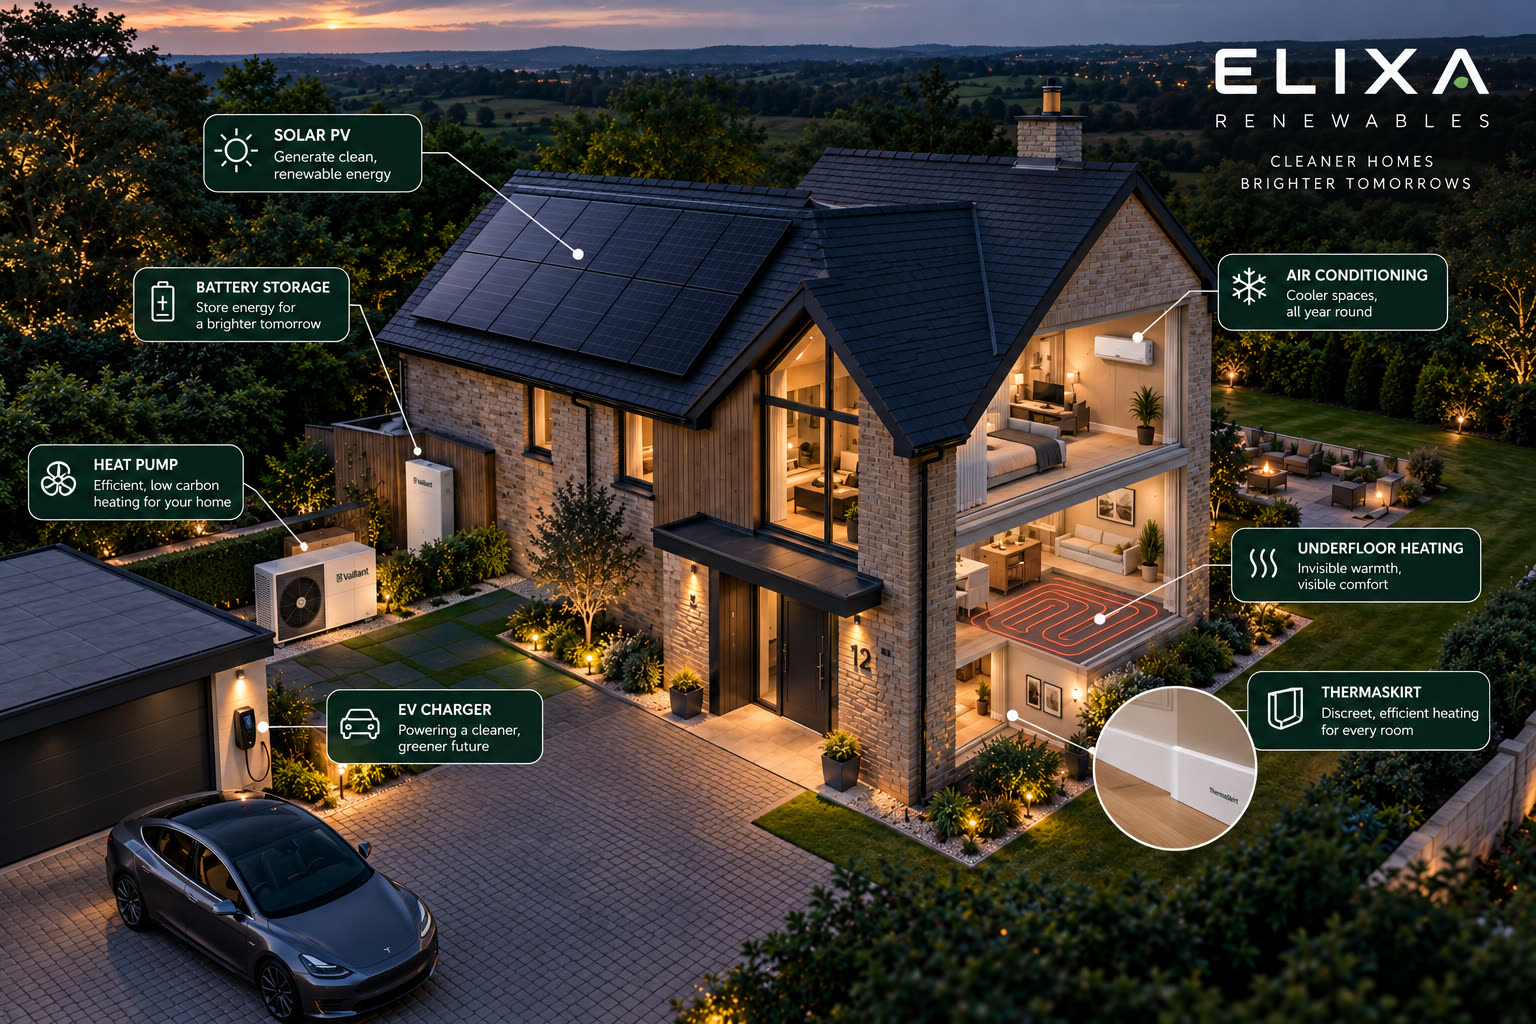
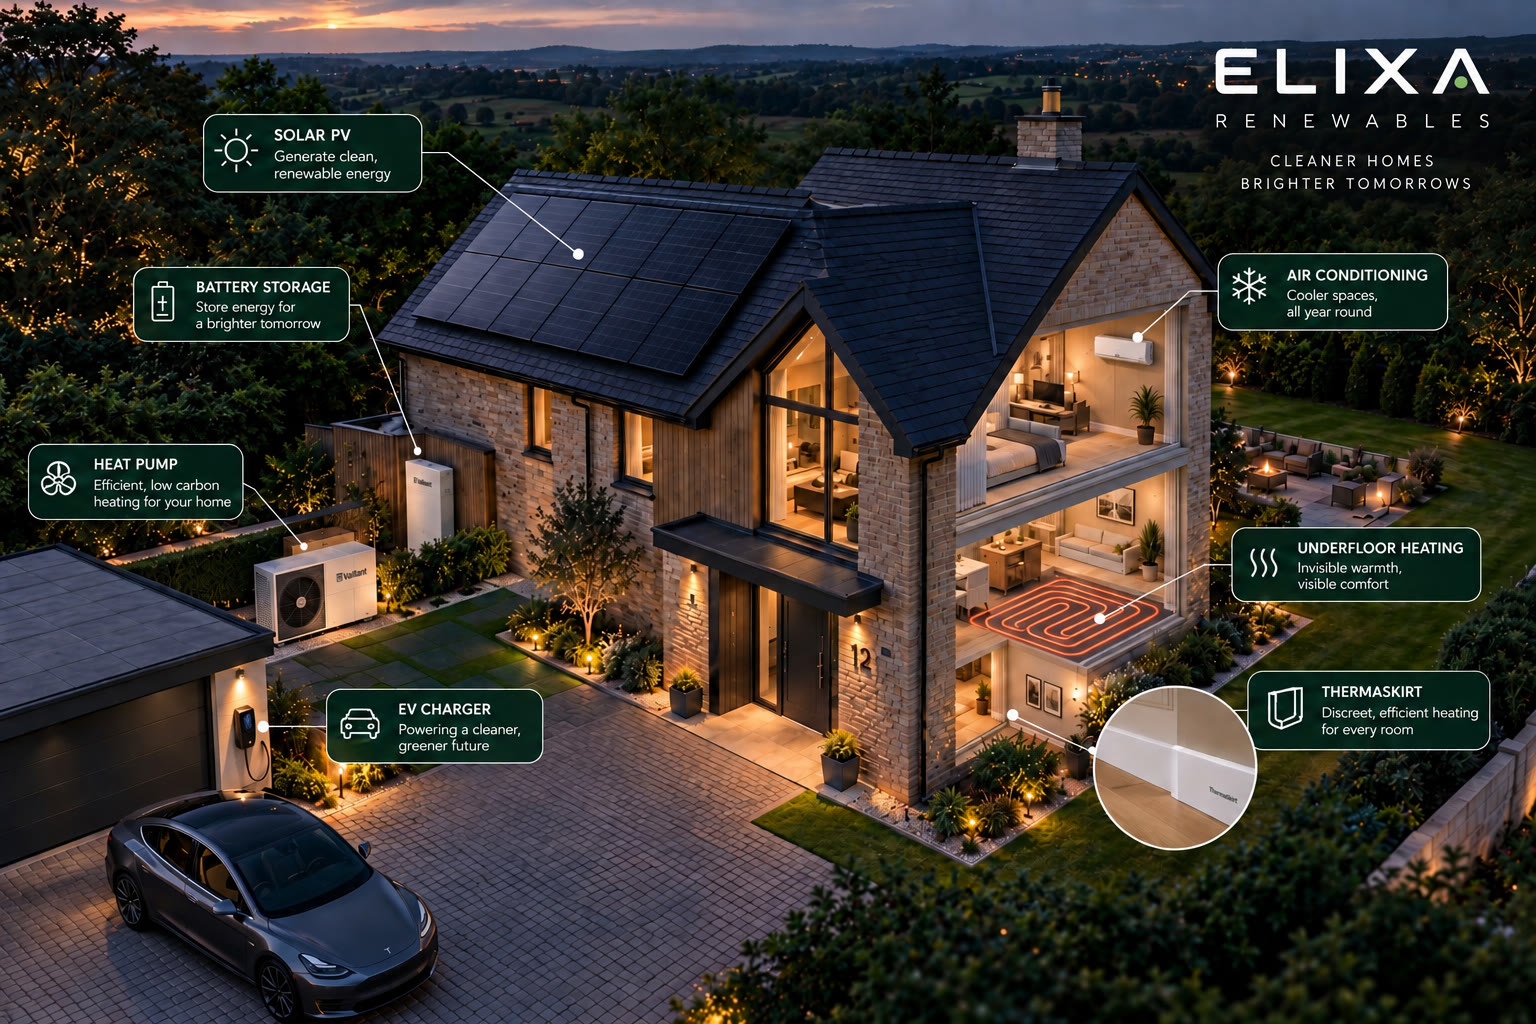
New master cutaway image with energy-emission effect on the interactive home
Swaps in the regenerated brand cutaway (cleaner ELIXA wordmark, tidier
serpentine underfloor loop, ThermaSkirt close-up inset) and re-maps
all seven hotspot pins onto its callout dots. Selecting a product now
radiates a soft animated energy pulse from the unit while the scene is
zoomed — concentric rings and a radial glow in a per-product colour:
warm orange for the heating products, icy blue for air conditioning,
gold for solar and teal for battery and EV charging. The effect is
desktop-only (it rides the zoom, which reduced-motion and mobile
already skip) and pointer-transparent.

Claude-Session: https://claude.ai/code/session_01CzxfpEP74mwhP49aLZZL4W

diff --git a/components/v2/ExploreHome.tsx b/components/v2/ExploreHome.tsx
@@ -20,6 +20,8 @@ interface Spot {
   /** pin position, % of image */
   x: number;
   y: number;
+  /** energy-emission colour shown while zoomed on this product */
+  emit?: string;
   /** zoom applied when active (scene scales around the pin) */
   scale: number;
   title: string;
@@ -37,9 +39,10 @@ interface Spot {
 const SPOTS: Spot[] = [
   {
     id: "solar",
+    emit: "#F5C044",
     label: "Solar PV",
-    x: 37.5,
-    y: 24.5,
+    x: 37.6,
+    y: 24.6,
     scale: 2.0,
     title: "Solar PV",
     blurb:
@@ -82,9 +85,10 @@ const SPOTS: Spot[] = [
   },
   {
     id: "battery",
+    emit: "#3EC5B4",
     label: "Battery storage",
-    x: 28,
-    y: 46,
+    x: 26.9,
+    y: 43.7,
     scale: 2.2,
     title: "Battery Storage",
     blurb:
@@ -127,9 +131,10 @@ const SPOTS: Spot[] = [
   },
   {
     id: "heatpump",
+    emit: "#FF8A4C",
     label: "Heat pump",
-    x: 20,
-    y: 58.5,
+    x: 19.3,
+    y: 53.2,
     scale: 2.2,
     title: "Air Source Heat Pump",
     blurb:
@@ -172,9 +177,10 @@ const SPOTS: Spot[] = [
   },
   {
     id: "ev",
+    emit: "#3EC5B4",
     label: "EV charging",
-    x: 16,
-    y: 72,
+    x: 16.8,
+    y: 70.6,
     scale: 2.2,
     title: "EV Charging",
     blurb:
@@ -217,9 +223,10 @@ const SPOTS: Spot[] = [
   },
   {
     id: "aircon",
+    emit: "#7CC7F0",
     label: "Air conditioning",
-    x: 73.5,
-    y: 34.5,
+    x: 74.0,
+    y: 32.5,
     scale: 2.0,
     title: "Air Conditioning",
     blurb:
@@ -262,9 +269,10 @@ const SPOTS: Spot[] = [
   },
   {
     id: "underfloor",
+    emit: "#FF8A4C",
     label: "Underfloor heating",
-    x: 70.5,
-    y: 58.5,
+    x: 71.8,
+    y: 58.4,
     scale: 2.1,
     title: "Underfloor Heating",
     blurb:
@@ -307,9 +315,10 @@ const SPOTS: Spot[] = [
   },
   {
     id: "thermaskirt",
+    emit: "#FF8A4C",
     label: "ThermaSkirt",
-    x: 76.5,
-    y: 74,
+    x: 65.9,
+    y: 69.6,
     scale: 2.1,
     title: "ThermaSkirt Heated Skirting",
     blurb:
@@ -467,6 +476,47 @@ export function ExploreHome() {
                 );
               })}
             </motion.div>
+
+            {/* energy emission — radiates from the active product while zoomed */}
+            <AnimatePresence>
+              {zoomed && active && (() => {
+                const s = active.scale;
+                const px = bgPos(active.x, 0.36, s) / 100;
+                const py = bgPos(active.y, 0.46, s) / 100;
+                const fx = px * (1 - s) + (active.x / 100) * s;
+                const fy = py * (1 - s) + (active.y / 100) * s;
+                const col = active.emit || "#3EC5B4";
+                return (
+                  <motion.div
+                    key={active.id}
+                    initial={{ opacity: 0 }}
+                    animate={{ opacity: 1 }}
+                    exit={{ opacity: 0 }}
+                    transition={{ delay: 0.55, duration: 0.7 }}
+                    className="pointer-events-none absolute"
+                    style={{ left: `${fx * 100}%`, top: `${fy * 100}%`, transform: "translate(-50%, -50%)" }}
+                  >
+                    <span className="relative block h-44 w-44 md:h-60 md:w-60">
+                      <span
+                        className="absolute inset-0 rounded-full"
+                        style={{ background: `radial-gradient(circle, ${col}4d 0%, ${col}1f 38%, transparent 68%)` }}
+                      />
+                      {[0, 0.8, 1.6].map((d) => (
+                        <span
+                          key={d}
+                          className="absolute inset-0 rounded-full border-2"
+                          style={{
+                            borderColor: col,
+                            opacity: 0,
+                            animation: `v2-emit 2.4s cubic-bezier(0, 0, 0.2, 1) ${d}s infinite`,
+                          }}
+                        />
+                      ))}
+                    </span>
+                  </motion.div>
+                );
+              })()}
+            </AnimatePresence>
           </motion.div>
 
           {/* info panel — side sheet on desktop, bottom sheet on mobile */}

diff --git a/app/globals.css b/app/globals.css
@@ -60,6 +60,20 @@
   a {
     touch-action: manipulation;
   }
+  /* energy-emission ripple on the interactive home */
+  @keyframes v2-emit {
+    0% {
+      transform: scale(0.22);
+      opacity: 0.55;
+    }
+    70% {
+      opacity: 0.16;
+    }
+    100% {
+      transform: scale(1);
+      opacity: 0;
+    }
+  }
   body {
     @apply bg-white text-ink font-sans antialiased;
     text-rendering: optimizeLegibility;
